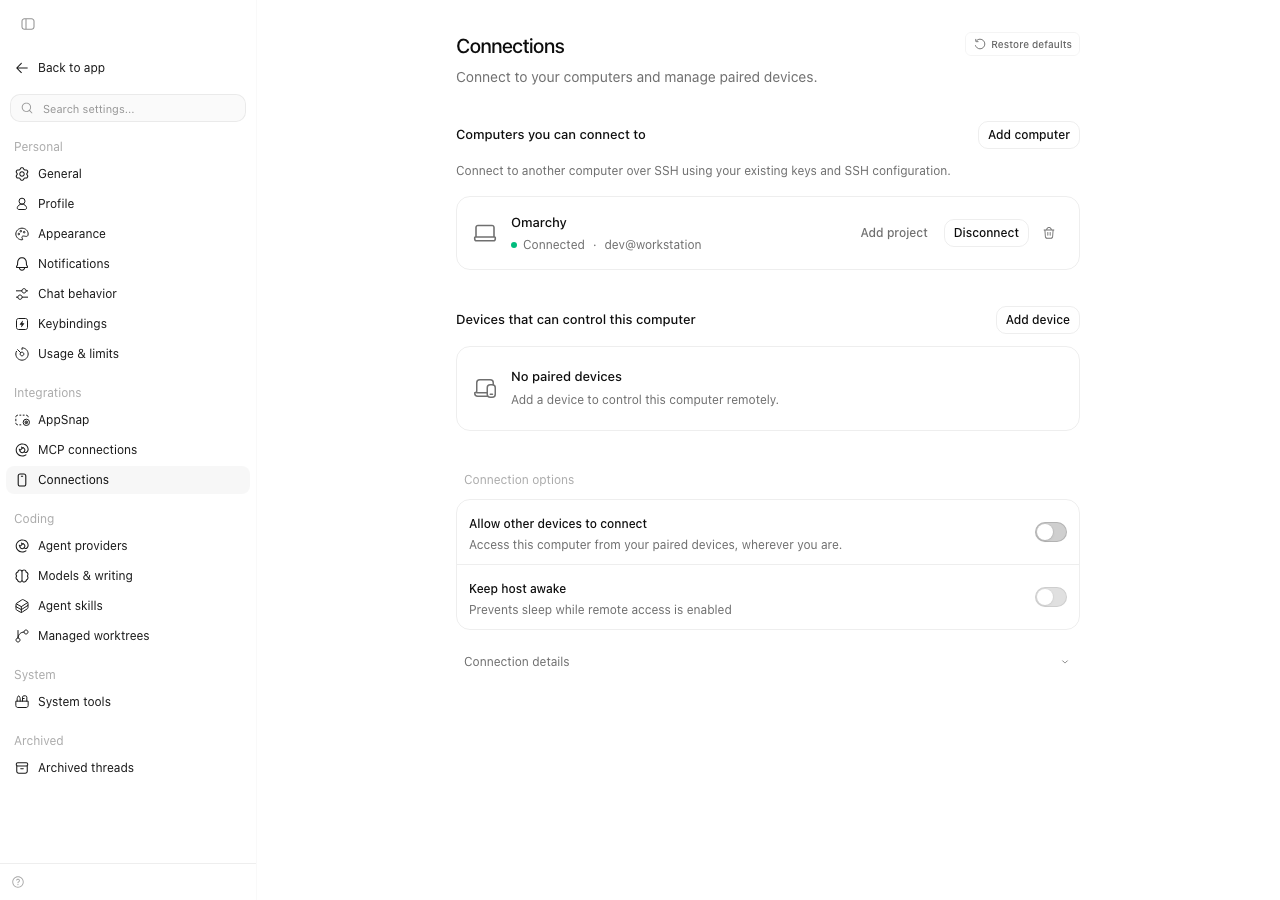
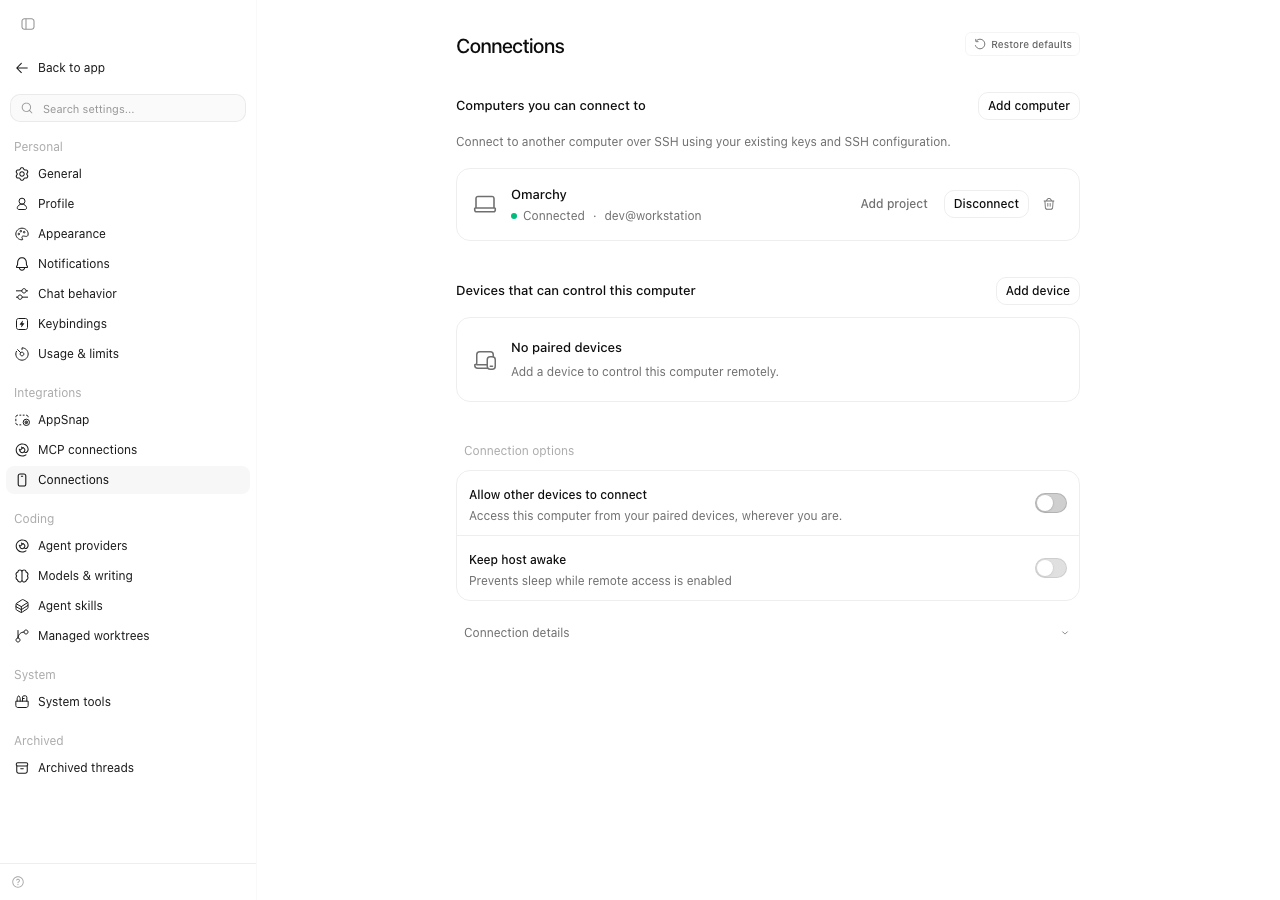
Remove the Connections page subtitle

diff --git a/apps/web/src/routes/_chat.settings.tsx b/apps/web/src/routes/_chat.settings.tsx
@@ -1292,9 +1292,11 @@ function SettingsRouteView() {
                     <h1 className="text-xl font-medium tracking-tight text-foreground">
                       {activeSectionItem.label}
                     </h1>
-                    <p className="mt-1.5 text-sm leading-relaxed text-muted-foreground">
-                      {activeSectionItem.description}
-                    </p>
+                    {activeSectionItem.description ? (
+                      <p className="mt-1.5 text-sm leading-relaxed text-muted-foreground">
+                        {activeSectionItem.description}
+                      </p>
+                    ) : null}
                   </div>
                   <Button
                     size="xs"

diff --git a/apps/web/src/settingsNavigation.ts b/apps/web/src/settingsNavigation.ts
@@ -41,7 +41,7 @@ export type SettingsNavItem = {
   id: SettingsSectionId;
   group: SettingsNavGroupId;
   label: string;
-  description: string;
+  description?: string;
   /** Central icon basename resolved by the shared icon registry. */
   icon: string;
   eyebrow: string;
@@ -135,7 +135,6 @@ export const SETTINGS_NAV_ITEMS: readonly SettingsNavItem[] = [
     id: "connections",
     group: "integrations",
     label: "Connections",
-    description: "Connect to your computers and manage paired devices.",
     icon: "phone",
     eyebrow: "Phones and SSH hosts",
   },
